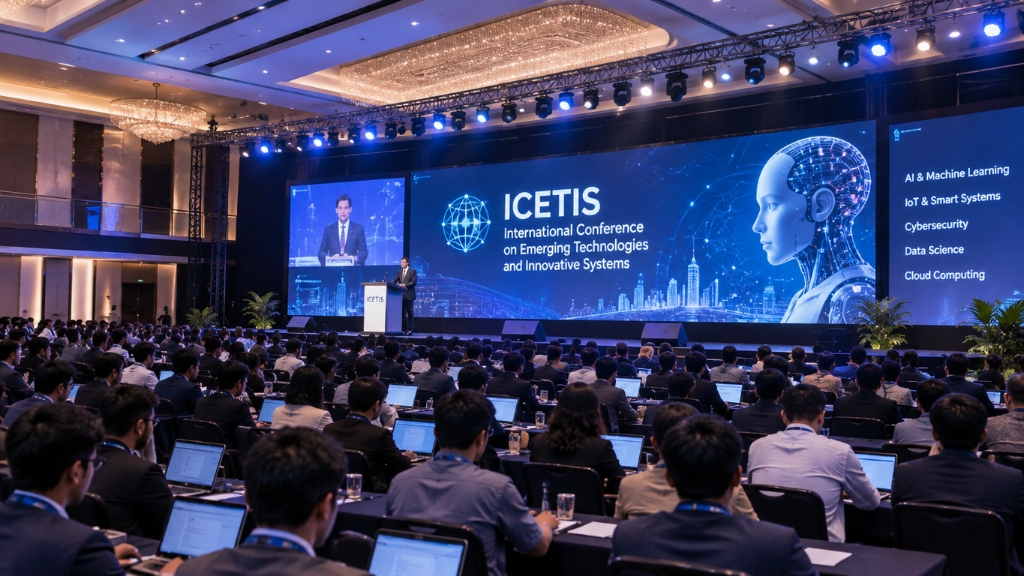
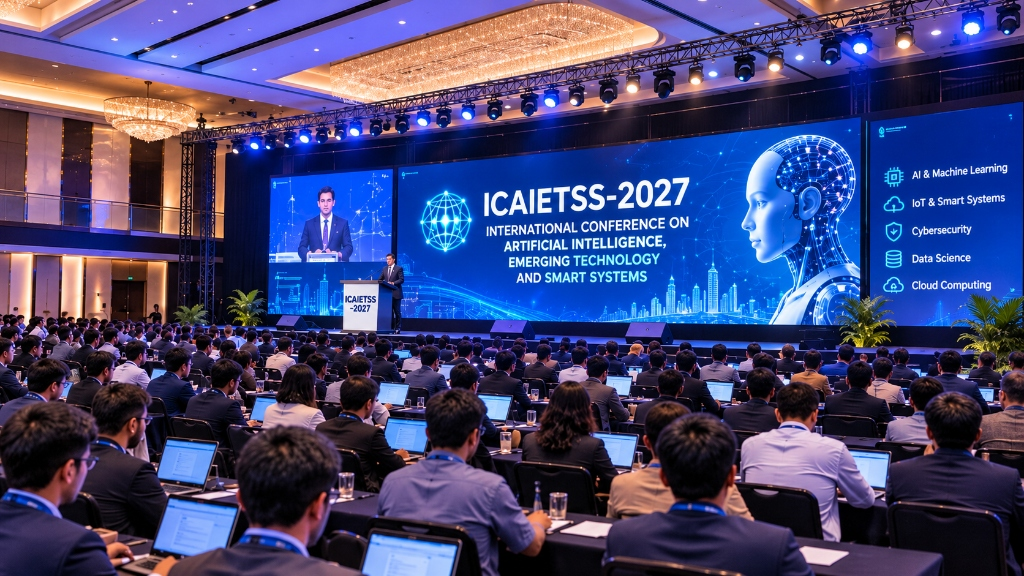
Rebrand conference to ICAIETSS-2027 and update auditorium background photo

diff --git a/index.html b/index.html
@@ -4,13 +4,13 @@
 <head>
   <meta charset="UTF-8">
   <meta name="viewport" content="width=device-width, initial-scale=1.0">
-  <title>ICETIS-2026 | International Conference on Emerging Technologies and Innovative Solutions | Arya College of
+  <title>ICAIETSS-2027 | International Conference on Artificial Intelligence, Emerging Technology and Smart Systems | Arya College of
     Engineering
   </title>
   <meta name="description"
-    content="ICETIS-2026 — International Conference on Emerging Technologies and Innovative Solutions, December 18–19, 2026 at Arya College of Engineering, Jaipur, India. Technically sponsored and indexed in Scopus / Springer / IEEE.">
+    content="ICAIETSS-2027 — International Conference on Artificial Intelligence, Emerging Technology and Smart Systems, December 18–19, 2026 at Arya College of Engineering, Jaipur, India. Technically sponsored and indexed in Scopus / Springer / IEEE.">
   <meta name="keywords"
-    content="ICETIS 2026, Arya College of Engineering, International Conference, AI, Machine Learning, IoT, Cloud Computing, Scopus, Springer, IEEE">
+    content="ICAIETSS-2027, ICAIETSS 2027, Arya College of Engineering, International Conference, Artificial Intelligence, Emerging Technology, Smart Systems, Machine Learning, IoT, Cloud Computing, Scopus, Springer, IEEE">
   <meta name="author" content="Arya College of Engineering, Jaipur">
 
   <!-- Favicon -->
@@ -25,7 +25,7 @@
     rel="stylesheet">
 
   <!-- Main Stylesheet -->
-  <link rel="stylesheet" href="css/style.css?v=10">
+  <link rel="stylesheet" href="css/style.css?v=11">
 </head>
 
 <body>
@@ -45,14 +45,14 @@
     <div class="layer campus-stage" aria-label="Arya College of Engineering Campus">
       <!-- Day Mode Set -->
       <div class="set is-on" id="setDay">
-        <img class="campus-img" src="assets/images/conference-auditorium.jpg"
-          alt="ICETIS-2026 Conference Auditorium — Day Atmosphere">
+        <img class="campus-img" src="assets/images/conference-auditorium.jpg?v=2"
+          alt="ICAIETSS-2027 Conference Auditorium — Day Atmosphere">
         <div class="day-sun-glow"></div>
       </div>
       <!-- Night Mode Set (Conference Auditorium with Atmospheric Night Lighting) -->
       <div class="set" id="setNight">
-        <img class="campus-img" src="assets/images/conference-auditorium.jpg"
-          alt="ICETIS-2026 Conference Auditorium — Night Illumination">
+        <img class="campus-img" src="assets/images/conference-auditorium.jpg?v=2"
+          alt="ICAIETSS-2027 Conference Auditorium — Night Illumination">
         <div class="night-lighting-overlay"></div>
       </div>
     </div>
@@ -126,11 +126,11 @@
       <div class="hero-center">
         <div class="conference-tag">
           <span class="tag-dot"></span>
-          <span>International Conference on Emerging Technologies and Innovative Solutions</span>
+          <span>INTERNATIONAL CONFERENCE ON ARTIFICIAL INTELLIGENCE, EMERGING TECHNOLOGY AND SMART SYSTEMS</span>
         </div>
 
         <h1 class="hero-title">
-          <span class="title-top">ICETIS-2026</span>
+          <span class="title-top">ICAIETSS-2027</span>
           <span class="title-sub">Advancing Global Innovation & Intelligent Technologies</span>
         </h1>
 
@@ -208,7 +208,7 @@
   <section id="about">
     <div class="container">
       <div class="section-header">
-        <span class="section-badge">Welcome to ICETIS-2026</span>
+        <span class="section-badge">Welcome to ICAIETSS-2027</span>
         <h2 class="section-title">Fostering Breakthroughs in Technology & Innovation</h2>
         <p class="section-subtitle">A premier global forum connecting scientists, academicians, industry visionaries,
           and researchers to deliberate on next-generation computing, intelligent autonomous systems, and sustainable
@@ -218,7 +218,7 @@
       <div class="about-grid">
         <div class="about-content">
           <h3>Pioneering Interdisciplinary Research in the Pink City</h3>
-          <p>The <b>1st International Conference on Emerging Technologies and Innovative Solutions (ICETIS-2026)</b>
+          <p>The <b>1st International Conference on Artificial Intelligence, Emerging Technology and Smart Systems (ICAIETSS-2027)</b>
             serves as an intellectual catalyst addressing crucial paradigm shifts in computational intelligence,
             cybersecurity, smart cyber-physical systems, and green technologies.</p>
           <p>Organized in hybrid mode (both in-person physical sessions and virtual participation for overseas
@@ -305,7 +305,7 @@
       <div class="section-header">
         <span class="section-badge">Technical Scope</span>
         <h2 class="section-title">Conference Technical Tracks</h2>
-        <p class="section-subtitle">ICETIS-2026 invites prospective authors to submit original, unpublished research
+        <p class="section-subtitle">ICAIETSS-2027 invites prospective authors to submit original, unpublished research
           papers across six major cutting-edge technical tracks.</p>
       </div>
 
@@ -587,7 +587,7 @@
             </svg>
           </div>
           <h4>Double-Blind Review</h4>
-          <p>ICETIS-2026 follows an uncompromising double-blind peer review methodology.</p>
+          <p>ICAIETSS-2027 follows an uncompromising double-blind peer review methodology.</p>
           <ul>
             <li>Omit author names, affiliations, and emails in initial PDF</li>
             <li>Every paper evaluated by at least 2 independent experts</li>
@@ -806,7 +806,7 @@
           <table class="bank-info-table">
             <tr>
               <td>Account Name:</td>
-              <td>Arya College of Engineering (ICETIS)</td>
+              <td>Arya College of Engineering (ICAIETSS)</td>
             </tr>
             <tr>
               <td>Bank Name:</td>
@@ -896,7 +896,7 @@
       <div class="pub-statement-box">
         <div class="pub-statement-icon">🛡</div>
         <div class="pub-statement-text">
-          <p><b>Publication Guarantee & Review Ethics:</b> ICETIS-2026 adheres strictly to the Committee on Publication
+          <p><b>Publication Guarantee & Review Ethics:</b> ICAIETSS-2027 adheres strictly to the Committee on Publication
             Ethics (COPE) guidelines. Every paper undergoes a rigorous double-blind peer review by at least two
             independent international experts. Plagiarism must remain below 15%.</p>
         </div>
@@ -913,7 +913,7 @@
         <span class="section-badge">Leadership & Committee</span>
         <h2 class="section-title">Keynote Speakers & Advisory Board</h2>
         <p class="section-subtitle">Distinguished academic leadership, committee chairs, and faculty organizing
-          ICETIS-2026 at Arya College of Engineering.</p>
+          ICAIETSS-2027 at Arya College of Engineering.</p>
       </div>
 
       <div class="committee-layout">
@@ -1326,7 +1326,7 @@
               </div>
               <div class="form-group">
                 <label for="cPaperId">Paper ID (If already submitted)</label>
-                <input type="text" id="cPaperId" class="form-control" placeholder="e.g. ICETIS-2026-104">
+                <input type="text" id="cPaperId" class="form-control" placeholder="e.g. ICAIETSS-2027-104">
               </div>
             </div>
 
@@ -1350,8 +1350,8 @@
     <div class="container">
       <div class="footer-grid">
         <div class="footer-brand-col">
-          <h4>ICETIS-2026</h4>
-          <p>International Conference on Emerging Technologies and Innovative Solutions organized by Arya College of
+          <h4>ICAIETSS-2027</h4>
+          <p>International Conference on Artificial Intelligence, Emerging Technology and Smart Systems organized by Arya College of
             Engineering, Jaipur, India.</p>
           <p style="font-size:12.5px;color:#64748b;">December 18–19, 2026 • SP-40 RIICO Industrial Area Kukas Jaipur
             Rajasthan 302028</p>
@@ -1360,7 +1360,7 @@
         <div class="footer-col">
           <h5>Quick Navigation</h5>
           <ul class="footer-links-list">
-            <li><a href="#about">About ICETIS-2026</a></li>
+            <li><a href="#about">About ICAIETSS-2027</a></li>
             <li><a href="#tracks">Technical Tracks</a></li>
             <li><a href="#dates">Deadlines & Dates</a></li>
             <li><a href="#guidelines">Author Guidelines</a></li>
@@ -1387,13 +1387,13 @@
             <input type="email" placeholder="Your email address" class="form-control"
               style="background:#0f172a;border-color:rgba(255,255,255,0.1);font-size:13px;">
             <button class="btn-header-cta" style="padding:0 16px;font-size:13px;"
-              onclick="alert('Thank you for subscribing to ICETIS-2026 updates!')">Join</button>
+              onclick="alert('Thank you for subscribing to ICAIETSS-2027 updates!')">Join</button>
           </div>
         </div>
       </div>
 
       <div class="footer-bottom">
-        <div>© 2026 ICETIS-2026 | Arya College of Engineering, Jaipur. All Rights Reserved.</div>
+        <div>© 2026 ICAIETSS-2027 | Arya College of Engineering, Jaipur. All Rights Reserved.</div>
         <div>Designed with Lumen Roof Immersive Day/Night Technology</div>
       </div>
     </div>
@@ -1409,7 +1409,7 @@
       <button class="modal-close-btn" aria-label="Close modal">&times;</button>
       <div class="modal-header">
         <h3 id="regModalTitle">Conference Registration Form</h3>
-        <p>ICETIS-2026 • Arya College of Engineering, Jaipur</p>
+        <p>ICAIETSS-2027 • Arya College of Engineering, Jaipur</p>
       </div>
 
       <form id="regForm">
@@ -1443,7 +1443,7 @@
           </div>
           <div class="form-group">
             <label for="regPaper">Accepted Paper ID (If Author)</label>
-            <input type="text" id="regPaper" class="form-control" placeholder="e.g. ICETIS-2026-104">
+            <input type="text" id="regPaper" class="form-control" placeholder="e.g. ICAIETSS-2027-104">
           </div>
         </div>
 
@@ -1469,7 +1469,7 @@
       <button class="modal-close-btn" aria-label="Close modal">&times;</button>
       <div class="modal-header">
         <h3 id="subModalTitle">Submit Research Manuscript</h3>
-        <p>ICETIS-2026 Submission Portal • Double-Blind Review</p>
+        <p>ICAIETSS-2027 Submission Portal • Double-Blind Review</p>
       </div>
 
       <form id="paperForm">
@@ -1538,7 +1538,7 @@
 
       <ul class="drawer-links">
         <li><a href="#home">Home</a></li>
-        <li><a href="#about">About ICETIS</a></li>
+        <li><a href="#about">About ICAIETSS-2027</a></li>
         <li><a href="#tracks">Technical Tracks</a></li>
         <li><a href="#dates">Important Dates</a></li>
         <li><a href="#guidelines">Author Guidelines</a></li>
@@ -1563,7 +1563,7 @@
 
   <!-- Smooth Scrolling (Lenis) & Main JavaScript -->
   <script src="js/lenis.min.js"></script>
-  <script src="js/main.js?v=10"></script>
+  <script src="js/main.js?v=11"></script>
 </body>
 
 </html>

diff --git a/css/style.css b/css/style.css
@@ -1,5 +1,5 @@
 /* ==========================================================================
-   ICETIS-2026 — International Conference on Emerging Technologies & Innovative Solutions
+   ICAIETSS-2027 — International Conference on Artificial Intelligence, Emerging Technology and Smart Systems
    Arya College of Engineering, Jaipur
    Design System: Inspired by Lumen Roof Day/Night Immersive Atmosphere
    ========================================================================== */
@@ -754,17 +754,21 @@ img {
 .conference-tag {
   display: inline-flex;
   align-items: center;
+  justify-content: center;
   gap: 8px;
   padding: 7px 20px;
+  max-width: 100%;
   border-radius: var(--radius-full);
   background: var(--hero-pill-bg);
   border: 1px solid var(--hero-pill-border);
   -webkit-backdrop-filter: blur(12px);
   backdrop-filter: blur(12px);
-  font-size: 13px;
+  font-size: 12.5px;
   font-weight: 600;
+  line-height: 1.4;
   letter-spacing: 0.04em;
   text-transform: uppercase;
+  text-align: center;
   color: var(--hero-ink);
   margin-bottom: calc(14 * var(--u));
   box-shadow: 0 4px 16px rgba(0, 0, 0, 0.08);
@@ -774,6 +778,7 @@ img {
 .tag-dot {
   width: 7px;
   height: 7px;
+  flex-shrink: 0;
   border-radius: 50%;
   background: #d4af37;
   box-shadow: 0 0 10px #d4af37;
@@ -3400,8 +3405,14 @@ textarea.form-control {
     display: flex;
   }
 
+  .conference-tag {
+    font-size: 11px;
+    padding: 8px 16px;
+    border-radius: 18px;
+  }
+
   .hero-title {
-    font-size: clamp(36px, 8.5vw, 56px);
+    font-size: clamp(34px, 8.2vw, 54px);
     margin-top: 16px;
   }
 

diff --git a/js/main.js b/js/main.js
@@ -1,5 +1,5 @@
 /**
- * ICETIS-2026 — Arya College of Engineering, Jaipur
+ * ICAIETSS-2027 — Arya College of Engineering, Jaipur
  * Core JavaScript Engine: Lumen Roof Day/Night WebGL Atmosphere & Interactive UI
  */
 
@@ -36,7 +36,7 @@
   // -------------------------------------------------------------------------
   // 1. THEME INITIALIZATION (DEFAULT DAY, PERSISTENCE VIA LOCALSTORAGE)
   // -------------------------------------------------------------------------
-  const savedTheme = localStorage.getItem('icetis_theme') || 'day';
+  const savedTheme = localStorage.getItem('icaietss_theme') || 'day';
   let initialNight = savedTheme === 'night' ? 1 : 0;
 
   // Set initial attributes immediately to avoid flashing
@@ -206,7 +206,7 @@
   function updateDOMTheme(isNight) {
     const themeName = isNight ? 'night' : 'day';
     docEl.setAttribute('data-theme', themeName);
-    localStorage.setItem('icetis_theme', themeName);
+    localStorage.setItem('icaietss_theme', themeName);
 
     // Toggle set visibility
     const setDay = $('setDay');
@@ -568,7 +568,7 @@
     paperForm.onsubmit = (e) => {
       e.preventDefault();
       closeModal(submitModal);
-      showToast('Paper manuscript uploaded successfully! Paper ID: ICETIS-2026-M' + Math.floor(1000 + Math.random() * 9000));
+      showToast('Paper manuscript uploaded successfully! Paper ID: ICAIETSS-2027-M' + Math.floor(1000 + Math.random() * 9000));
       paperForm.reset();
     };
   }

diff --git a/README.md b/README.md
@@ -1,6 +1,6 @@
-# ICETIS-2026 — International Conference on Emerging Technologies and Innovative Solutions
+# ICAIETSS-2027 — International Conference on Artificial Intelligence, Emerging Technology and Smart Systems
 
-Official website for the **1st International Conference on Emerging Technologies and Innovative Solutions (ICETIS-2026)** organized by **Arya College of Engineering**, Jaipur, Rajasthan, India.
+Official website for the **1st International Conference on Artificial Intelligence, Emerging Technology and Smart Systems (ICAIETSS-2027)** organized by **Arya College of Engineering**, Jaipur, Rajasthan, India.
 
 📅 **Dates:** December 18–19, 2026  
 📍 **Venue:** Arya College of Engineering, SP-40, RIICO Industrial Area, Kukas, Jaipur, Rajasthan 302028  
@@ -20,7 +20,7 @@ Official website for the **1st International Conference on Emerging Technologies
   - Primary Gold (`#D4AF37`), Champagne Gold (`#E6C875`), and Soft Gold (`#F3E5AB`) paired with Warm White (`#FFFDF5`), Pure White (`#FFFFFF`), and Deep Navy (`#111827`).
   - High-contrast, elegant typography using Google's *Instrument Sans*.
 - **Comprehensive Conference Sections:**
-  - **About:** Overview of ICETIS-2026 and Arya College of Engineering profile.
+  - **About:** Overview of ICAIETSS-2027 and Arya College of Engineering profile.
   - **Technical Tracks:** 6 tracks covering AI/ML, Cyber-Physical IoT, Cloud/Quantum Security, Big Data Healthcare, Green Smart Grids, and 5G/6G VLSI.
   - **Important Dates & Countdown:** Interactive live timer counting down to December 18, 2026.
   - **Call for Papers & Guidelines:** IEEE/Springer author guidelines, plagiarism thresholds, and template download triggers.
